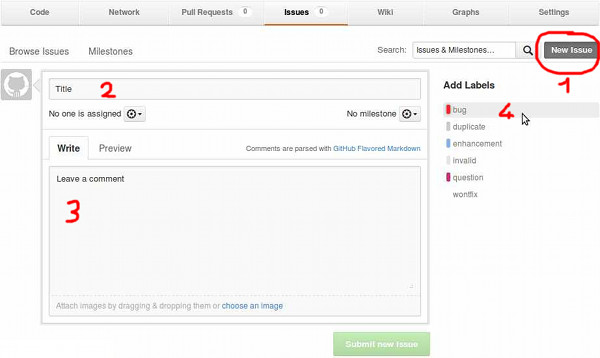
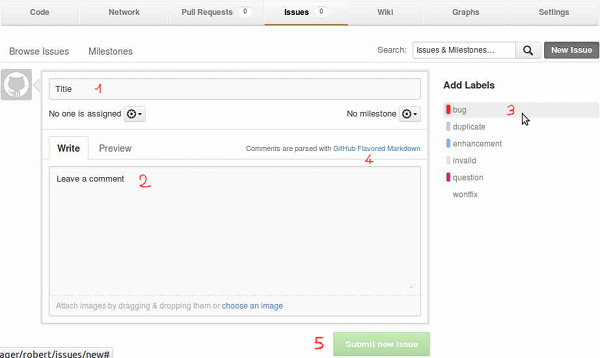
Un peu de GFX, retouche des menus, et amélioration mise en page "participer"

diff --git a/css/ossature.css b/css/ossature.css
@@ -283,7 +283,8 @@ select { padding: 3px; font-size: 0.9em; border: 1px solid; -moz-border-radius: 
 .interlockItem {   }
 
 code {
+	font-size: 0.9em;
 	border: 1px solid #888888;
 	padding: 0px;
-	background-color: rgba(128, 128, 128, 0.4);
+	background-color: rgba(128, 128, 128, 0.2);
 }

diff --git a/pages/p_6participer.php b/pages/p_6participer.php
@@ -6,47 +6,75 @@
 
 
 <div class="pageContent">
+
 	<h1>Participer</h1>
-	Afin de centraliser les informations sur Robert, nous utilisons le système de partage de projet <a href="https://github.com/" target="_new">GitHub</a>.
-	<br />Voici un aperçu de ce que vous pouvez apporter au développement <ul>
-		<li>Reporter un bug</li>
+	Afin de centraliser les informations du développement du Robert, nous utilisons le <a href="https://github.com/" target="_new">système de partage de projet <b>GitHub</b></a>.
+	<br />
+	Voici un aperçu de ce que vous pouvez apporter au développement :
+	<ul>
+		<li>Rapporter un bug</li>
 		<li>Proposer une idée</li>
 		<li>Poser une question</li>
-		<li>Ajouter des fonctions ( <a href='index.php?go=3api'>cf. page développeurs</a> )</li>
+		<li>Ajouter des fonctions (cf. <a href='index.php?go=3wiki'>Wiki</a>)</li>
 	</ul>
+	<p>Par où commencer ? C'est facile :</p>
+	<br />
+
+
+
 
 	<h2>Création d'un compte sur GitHub</h2>
-	Pour pouvoir participer il faut vous connecter sur le site <a href="https://github.com/" target="_new">GitHub</a>.
-	Si vous n'avez pas de compte dessus, il faut en créer un ( 10 secondes, c'est gratuit ) afin que nous puissions vous répondre / demander des compléments d'information ( pour reproduire un bug par exemple ).
 
-	<p align="center">
-		<img src="gfx/git-tuto/create_account.jpg" width="500" border=2 />
+	<span class="floatLeft marge30r"><img src="gfx/git-tuto/create_account.jpg" width="500" border=2 /></span>
+	<p>
+		<br /><br />
+		Pour pouvoir participer il faut vous connecter sur le site <a href="https://github.com/" target="_new">GitHub</a>.
 	</p>
+	<p>
+		Si vous n'avez pas encore de compte GitHub, il faut en <b>créer un</b> (ça prend 10 secondes, et c'est <u>gratuit</u>) afin que nous puissions vous
+		répondre ou vous demander des compléments d'information (pour reproduire un bug par exemple).
+	</p>
+
+	<p style="clear: both;"></p>
+	<br />
+	<br />
+
+
+
 
 	<h2>Ajouter un bug</h2>
-	Ci dessous la fenetre d'ajout de bug. ( <a href="https://github.com/RobertManager/robert/issues/new" target="_new"/>lien direct</a> )
 
-	<p align ="center">
+	<p class="floatRight marge30l">
+		Fenêtre d'ajout de bug du GitHub :<br /><br />
 		<img src="gfx/git-tuto/add_bug.jpg" width="600" border=2 />
 	</p>
-	<u>Informations essentielles</u> :
+
+	<p><a href="https://github.com/RobertManager/robert/issues/new" target="_new" />Cliquez ici pour ajouter un bug maintenant !</a></p>
+
+	<u class="gras">Informations essentielles</u> :
 	<ul>
-		<li><b>Le titre</b> de votre ticket</li>
-		<li><b>Sa description</b> Soyez le plus précis possible. Dans le cas d'un bug, essayez de le reproduire plusieurs fois et décrivez la procédure pour que nous puissions le corriger</li>
+		<li><b>Le titre</b> <b class="red">(1)</b> de votre ticket</li>
+		<li><b>Sa description</b> <b class="red">(2)</b> : Soyez le plus précis possible. Dans le cas d'un bug, essayez de le reproduire plusieurs fois
+			et décrivez la procédure pour que nous puissions le corriger</li>
 	</ul>
-	<u>Les labels</u> permettent de catégoriser les informations que vous entrez :
+	<u class="gras">Les labels</u> <b class="red">(3)</b> :<br />
+	Ils permettent de catégoriser les informations :
 	<ul>
 		<li><b>Bug</b> - quand quelque chose ne se passe pas comme prévu</li>
 		<li><b>Enhancement</b> - Si vous avez une idée de fonction ou d'amélioration</li>
 		<li><b>Question</b> - Quelque chose que vous ne comprenez pas</li>
 	</ul>
 
-	<u>Mise en forme du texte</u> : Les raccourcis permettant de mettre votre texte en forme sont listés dans la fenêtre qui s'ouvre en cliquant sur le lien 'GitHub Flavored Markdown'.
-	Il s'agit d'un mode rapide de mise en forme du texte. Par exemple, pour mettre en texte en gras, il faut mettre deux étoiles ("multiplier", sur le clavier) qui entourent votre texte :
-	<p align="center">**<b>Le texte a l'intérieur des étoiles est en gras</b>**</p>
-	Quand vous avez terminé, vous pouvez cliquer sur l'onglet preview pour voir le formattage.
+	<u class="gras">Mise en forme du texte</u> :<br />
+	Les raccourcis permettant de mettre votre texte en forme sont listés dans la fenêtre qui s'ouvre en cliquant sur le lien <b>"GitHub Flavored Markdown"</b> <b class="red">(4)</b>.
+	Il s'agit d'un mode rapide de mise en forme du texte.<br />
+	Par exemple, pour mettre en texte en gras, il faut mettre deux étoiles <small><i>(touche "multiplier")</i></small> qui entourent votre texte :
+	<p align="center">**<b>Le texte a l'intérieur des étoiles sera en gras</b>**</p>
+	Quand vous avez terminé, vous pouvez cliquer sur l'onglet preview pour voir le formatage.
 
-	<p>Voilà, vous pouvez maintenant cliquer sur <b>SUBMIT NEW ISSUE</b>, pour que tous les développeurs reçoivent un mail qui les alerte de votre problème ou de votre suggestion</p>
+	<p>Voilà, vous pouvez maintenant cliquer sur le bouton <b>SUBMIT NEW ISSUE</b> <b class="red">(5)</b>, pour que tous les développeurs reçoivent un mail qui les alerte de votre problème ou de votre suggestion</p>
+
+	<h2>Merci d'avance pour votre participation !</h2>
 
 	<p>&nbsp;</p>
 

diff --git a/modals/menuTools.php b/modals/menuTools.php
@@ -14,30 +14,48 @@ function list_themes () {
 
 ?>
 
-<p>
+<!--<p>
 	<select id="themeSel" title="utilisez ce menu pour changer de thème visuel.">
 		<option disabled selected value="">Thème...</option>
 		<?php $themesDispo = list_themes();
 			  foreach ($themesDispo as $theme) echo "<option value='$theme'>$theme</option>"; ?>
 	</select>
 </p>
-
-
 -----------------------
-<br />
+<br />-->
 
 <div id="reseauSocial">
-	<h4>Derniers dons</h4>
-	<span class="mini"><b>2000€</b> : ACOUSMIE</span>
+	<div class="ui-state-active ui-corner-all margeTop10 pad3" style="margin-bottom: 5px;">Télécharger</div>
+	<a href="https://github.com/RobertManager/robert/archive/master.zip" target="blank"><img src="gfx/icones/zip.png" alt="ZIP" /></a>
 	<br />
 	<br />
-	<h4>Télécharger</h4>
-	<a href="https://github.com/RobertManager/robert/archive/master.zip" target="blank">ZIP</a>
-	<br />
-	<br />
-	<h4>Cloner</h4>
+
+	<div class="ui-state-active ui-corner-all margeTop10 pad3" style="margin-bottom: 5px;">Cloner</div>
 	<a href="https://github.com/RobertManager/robert" target="blank"><img src="gfx/icones/logo-github.png" /></a><br />
-	<code>git://github.com/RobertManager/robert.git</code>
+	<code class="mini">git://github.com/RobertManager/robert.git</code>
+	<br />
+	<br />
+
+	<div class="ui-state-active ui-corner-all margeTop10 pad3" style="margin-bottom: 5px;">Dénoncer un Bug</div>
+	<a href="https://github.com/RobertManager/robert/issues/new" target="_new" /><img src="gfx/icones/bug.png" alt="NEW BUG" /></a>
+	<br />
+	-----------------------
+
+	<div class="margeTop10 padH5 center ui-state-active bordSection ui-corner-all">
+		<div class="petit gras" style="color: #000;">Pour nous aider :</div>
+		<br />
+		<form action="https://www.paypal.com/cgi-bin/webscr" method="post">
+			<input type="hidden" name="cmd" value="_s-xclick">
+			<input type="hidden" name="hosted_button_id" value="GTCTMAKLUM7JW">
+			<input type="image" src="https://www.paypalobjects.com/fr_FR/FR/i/btn/btn_donate_SM.gif" border="0" name="submit" alt="Faire un don avec PAYPAL.">
+			<img alt="" border="0" src="https://www.paypalobjects.com/fr_FR/i/scr/pixel.gif" width="1" height="1">
+		</form>
+		<br />
+		<img src="gfx/icones/payCards.png" width="125" /><br />
+	</div>
+
+	<div class="ui-state-active ui-corner-all margeTop10 pad3" style="margin-bottom: 5px;">Derniers dons</div>
+	<span class="mini"><b>2000€</b> : ACOUSMIE</span>
 
 </div>
 

diff --git a/pages/p_4donnateurs.php b/pages/p_4donnateurs.php
@@ -9,7 +9,7 @@
 	<div class="ui-state-default pad5 ui-corner-all big gras">Voici les généreux donnateurs, mécènes du projet "Robert" :</div>
 	<div class="pad5 marge30l margeTop10">
 		<li class="gros">
-			<a href="http://www.acousmie.fr" target="_blank"><img src="http://www.acousmie.fr/gfx/logo-acousmie.png" width="150" /> ACOUSMIE</a> (initiateurs du projet) : <b>2000€</b>, <i>le 01/05/2012</i>
+			<a href="http://www.acousmie.fr" target="_blank"> <img src="http://www.acousmie.fr/gfx/logo-acousmie.png" width="150" />Association ACOUSMIE</a> (initiateurs du projet) : <b>2000€</b>, <i>le 01/05/2012</i>
 		</li>
 		<li class="gros">
 			...

diff --git a/modals/menuPages.php b/modals/menuPages.php
@@ -12,9 +12,9 @@
 			 $classUi = 'highlight';
 		else $classUi = 'default';
 		// Affichage de l'icone du menu
-		echo "<div class='ui-state-$classUi ui-corner-all menu".$orient."_icon menu_entry' popup='$nomLien'>
-				<a href='?go=$nomPage'><img class='img_menu' src='gfx/icones/menu/$nomIcone.png' alt='$nomLien'/></a>
-			</div>";
+		echo "<a href='?go=$nomPage'><div class='ui-state-$classUi ui-corner-all menu".$orient."_icon menu_entry' popup='$nomLien'>
+				<img class='img_menu' src='gfx/icones/menu/$nomIcone.png' alt='$nomLien'/>
+			</div></a>";
 	}
 
 ?>

diff --git a/pages/p_3wiki.php b/pages/p_3wiki.php
@@ -11,6 +11,8 @@
 
 <div class="pageContent">
 
+	<h1>Wiki</h1>
+	
 	<?php
 	$np = 0;
 	foreach (glob('../robert.wiki/*.md') as $wikiFile) :
